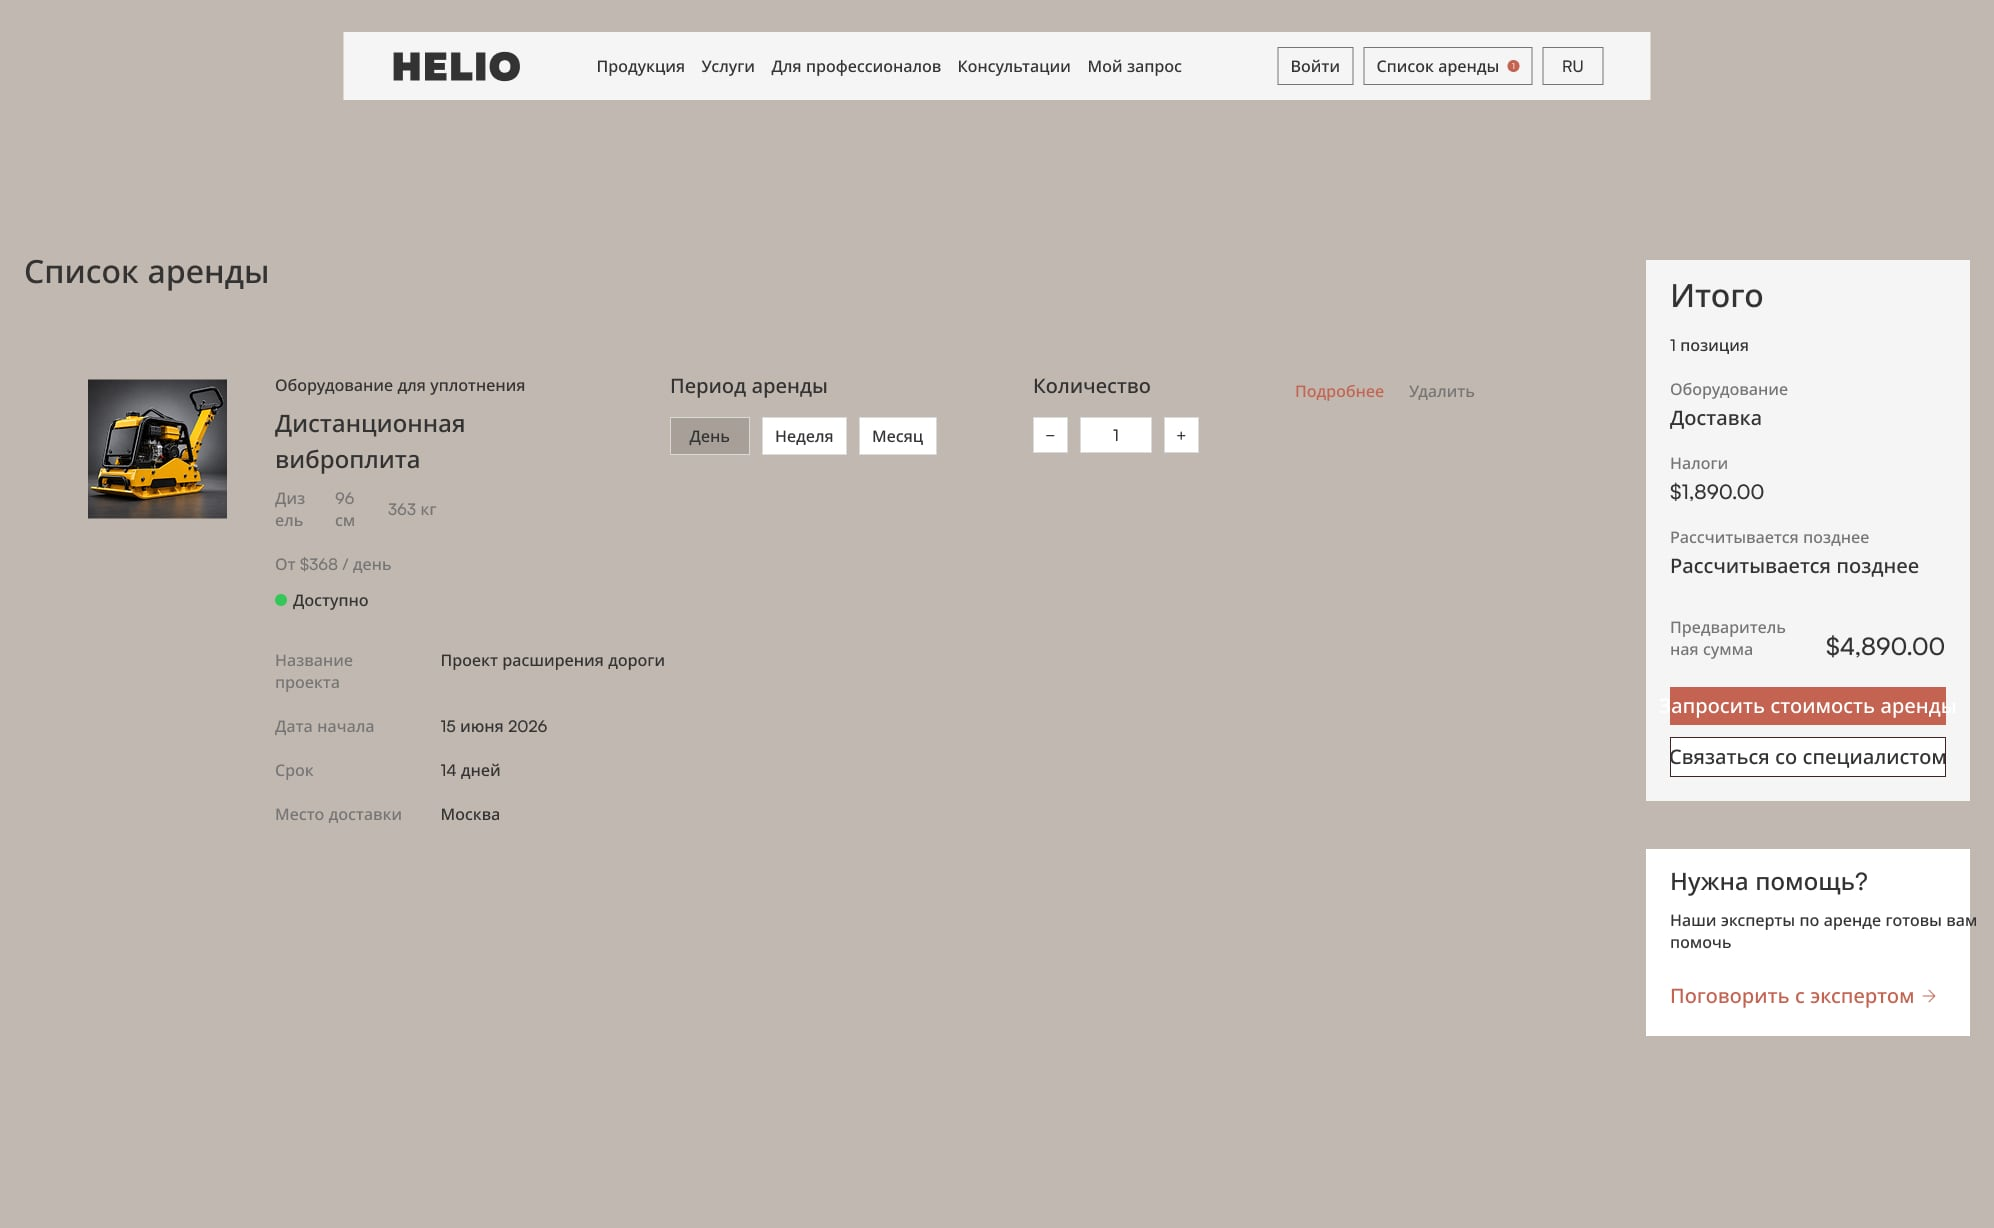
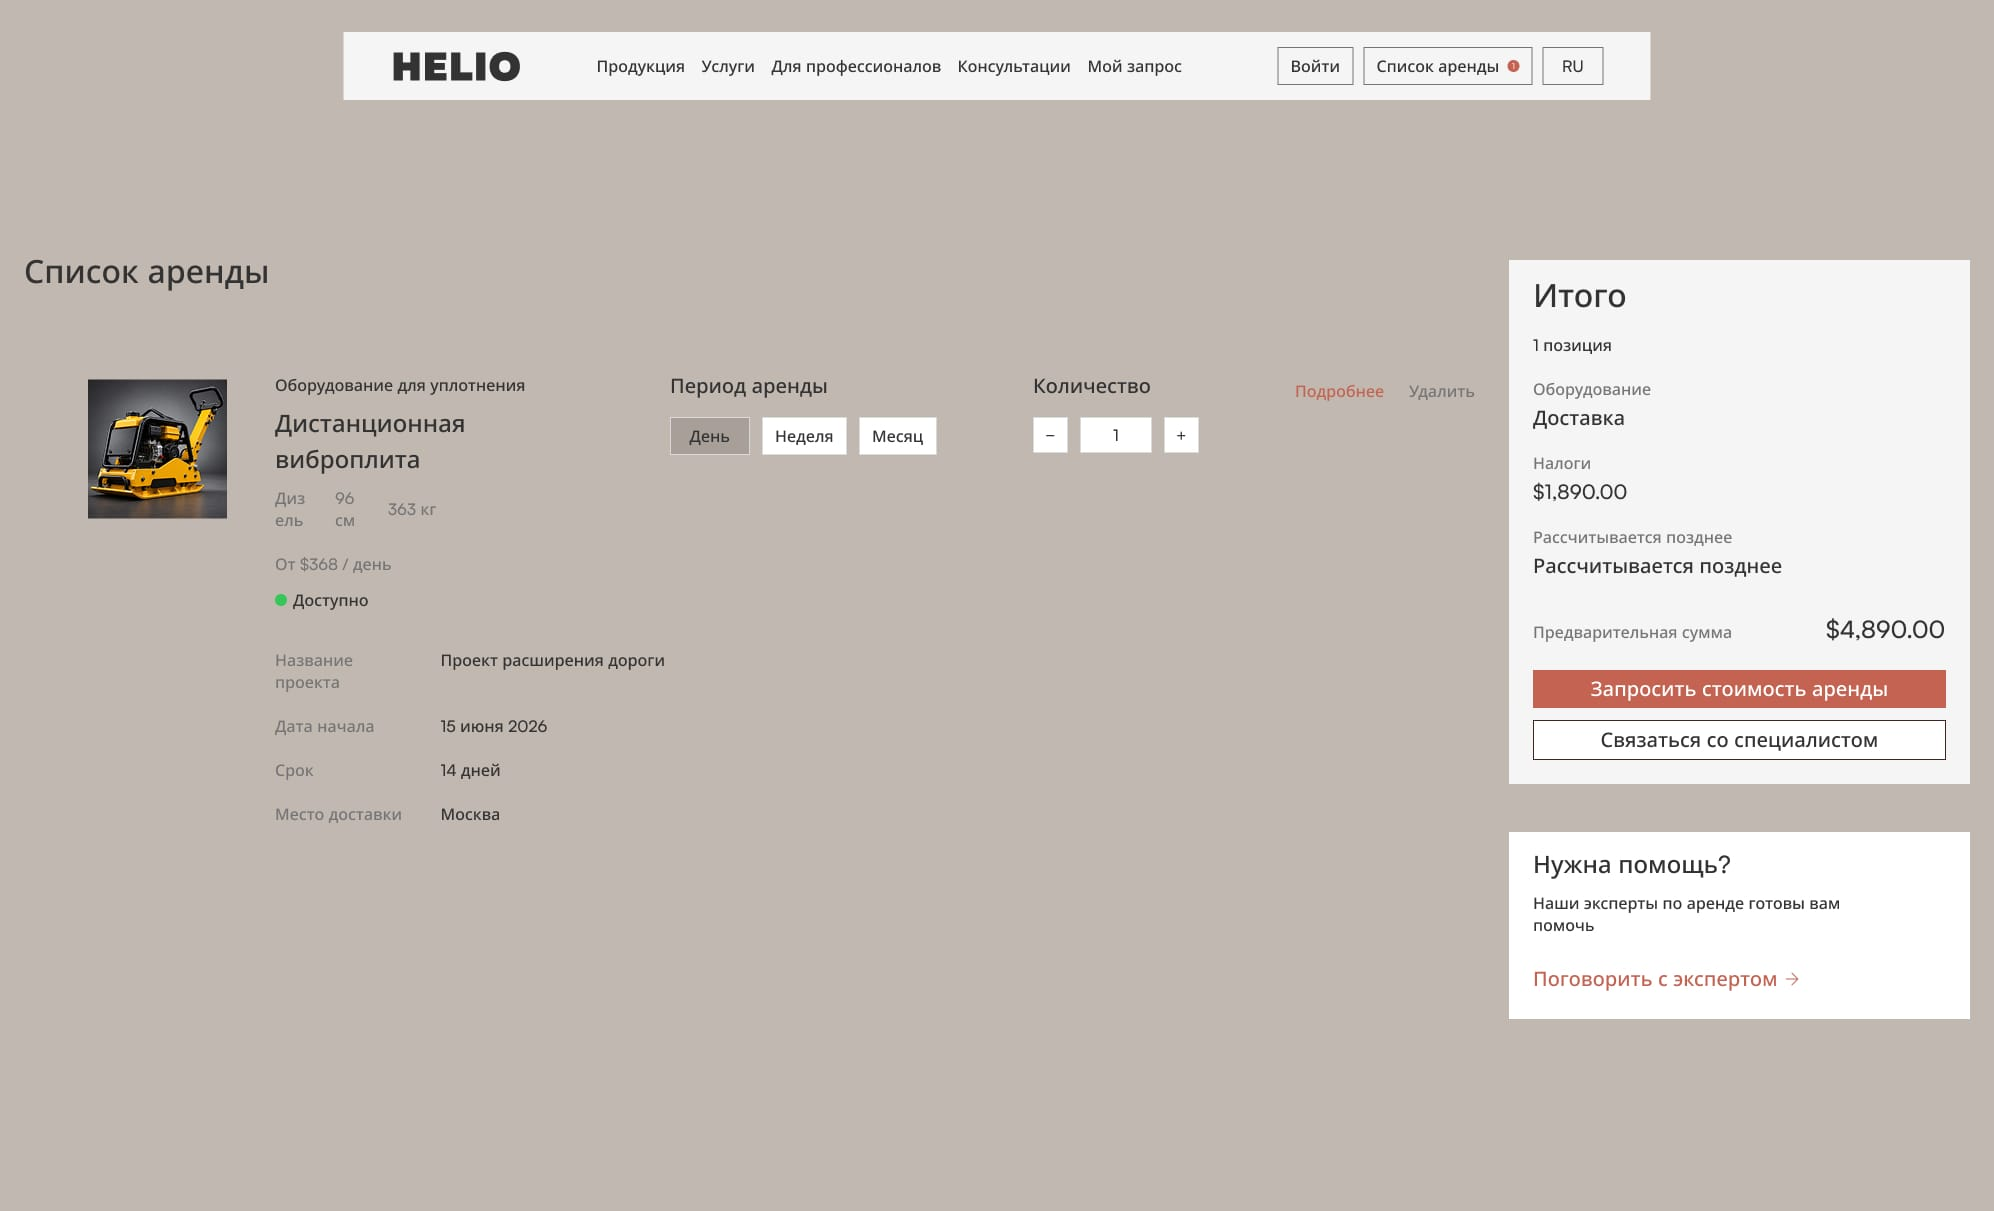
Replace three case screens with refined versions
- Helio: Rental List screen with fixed summary panel
- Trace: Categories screen with corrected legend spacing
- Trace: Goals screen with tooltip and recommendation cards

diff --git a/cases/equipment-rental.html b/cases/equipment-rental.html
@@ -144,7 +144,7 @@
 <li>сравнивать варианты;</li>
 <li>отправлять запрос на аренду.</li>
 </ul>
-<figure class="fig fig--single reveal"><img src="../assets/cases/equipment-rental/06-rental_list.jpg" width="1994" height="1228" alt="Экран Rental List: список оборудования под проект с итогом и запросом на аренду" loading="lazy"></figure>
+<figure class="fig fig--single reveal"><img src="../assets/cases/equipment-rental/06-rental_list.jpg" width="1994" height="1211" alt="Экран Rental List: список оборудования под проект с итогом и запросом на аренду" loading="lazy"></figure>
 <div class="cs-result">
 <h2>Результат</h2>
 <p>Rental List — ключевое отличие от типового каталога аренды техники: вместо разовой корзины пользователь формирует список оборудования под конкретный проект, ближе к тому, как реально работают подрядчики, а не к логике e-commerce.</p>

diff --git a/cases/finance.html b/cases/finance.html
@@ -130,7 +130,7 @@
 <li>последовательные пользовательские сценарии;</li>
 <li>акцент на действиях, а не на отчётности.</li>
 </ul>
-<figure class="fig fig--single reveal"><img src="../assets/cases/finance/08-savings_goals.jpg" width="1861" height="1052" alt="Раздел «Цели»: сберегательные цели с прогрессом, сумма накоплений и рекомендации" loading="lazy"></figure>
+<figure class="fig fig--single reveal"><img src="../assets/cases/finance/08-savings_goals.jpg" width="1728" height="1117" alt="Раздел «Цели»: сберегательные цели с прогрессом, сумма накоплений и рекомендации" loading="lazy"></figure>
 <div class="cols">
 <div><p class="label">Clarity</p>
 <p>Сложные финансовые показатели должны восприниматься быстро и без дополнительных объяснений.</p>
